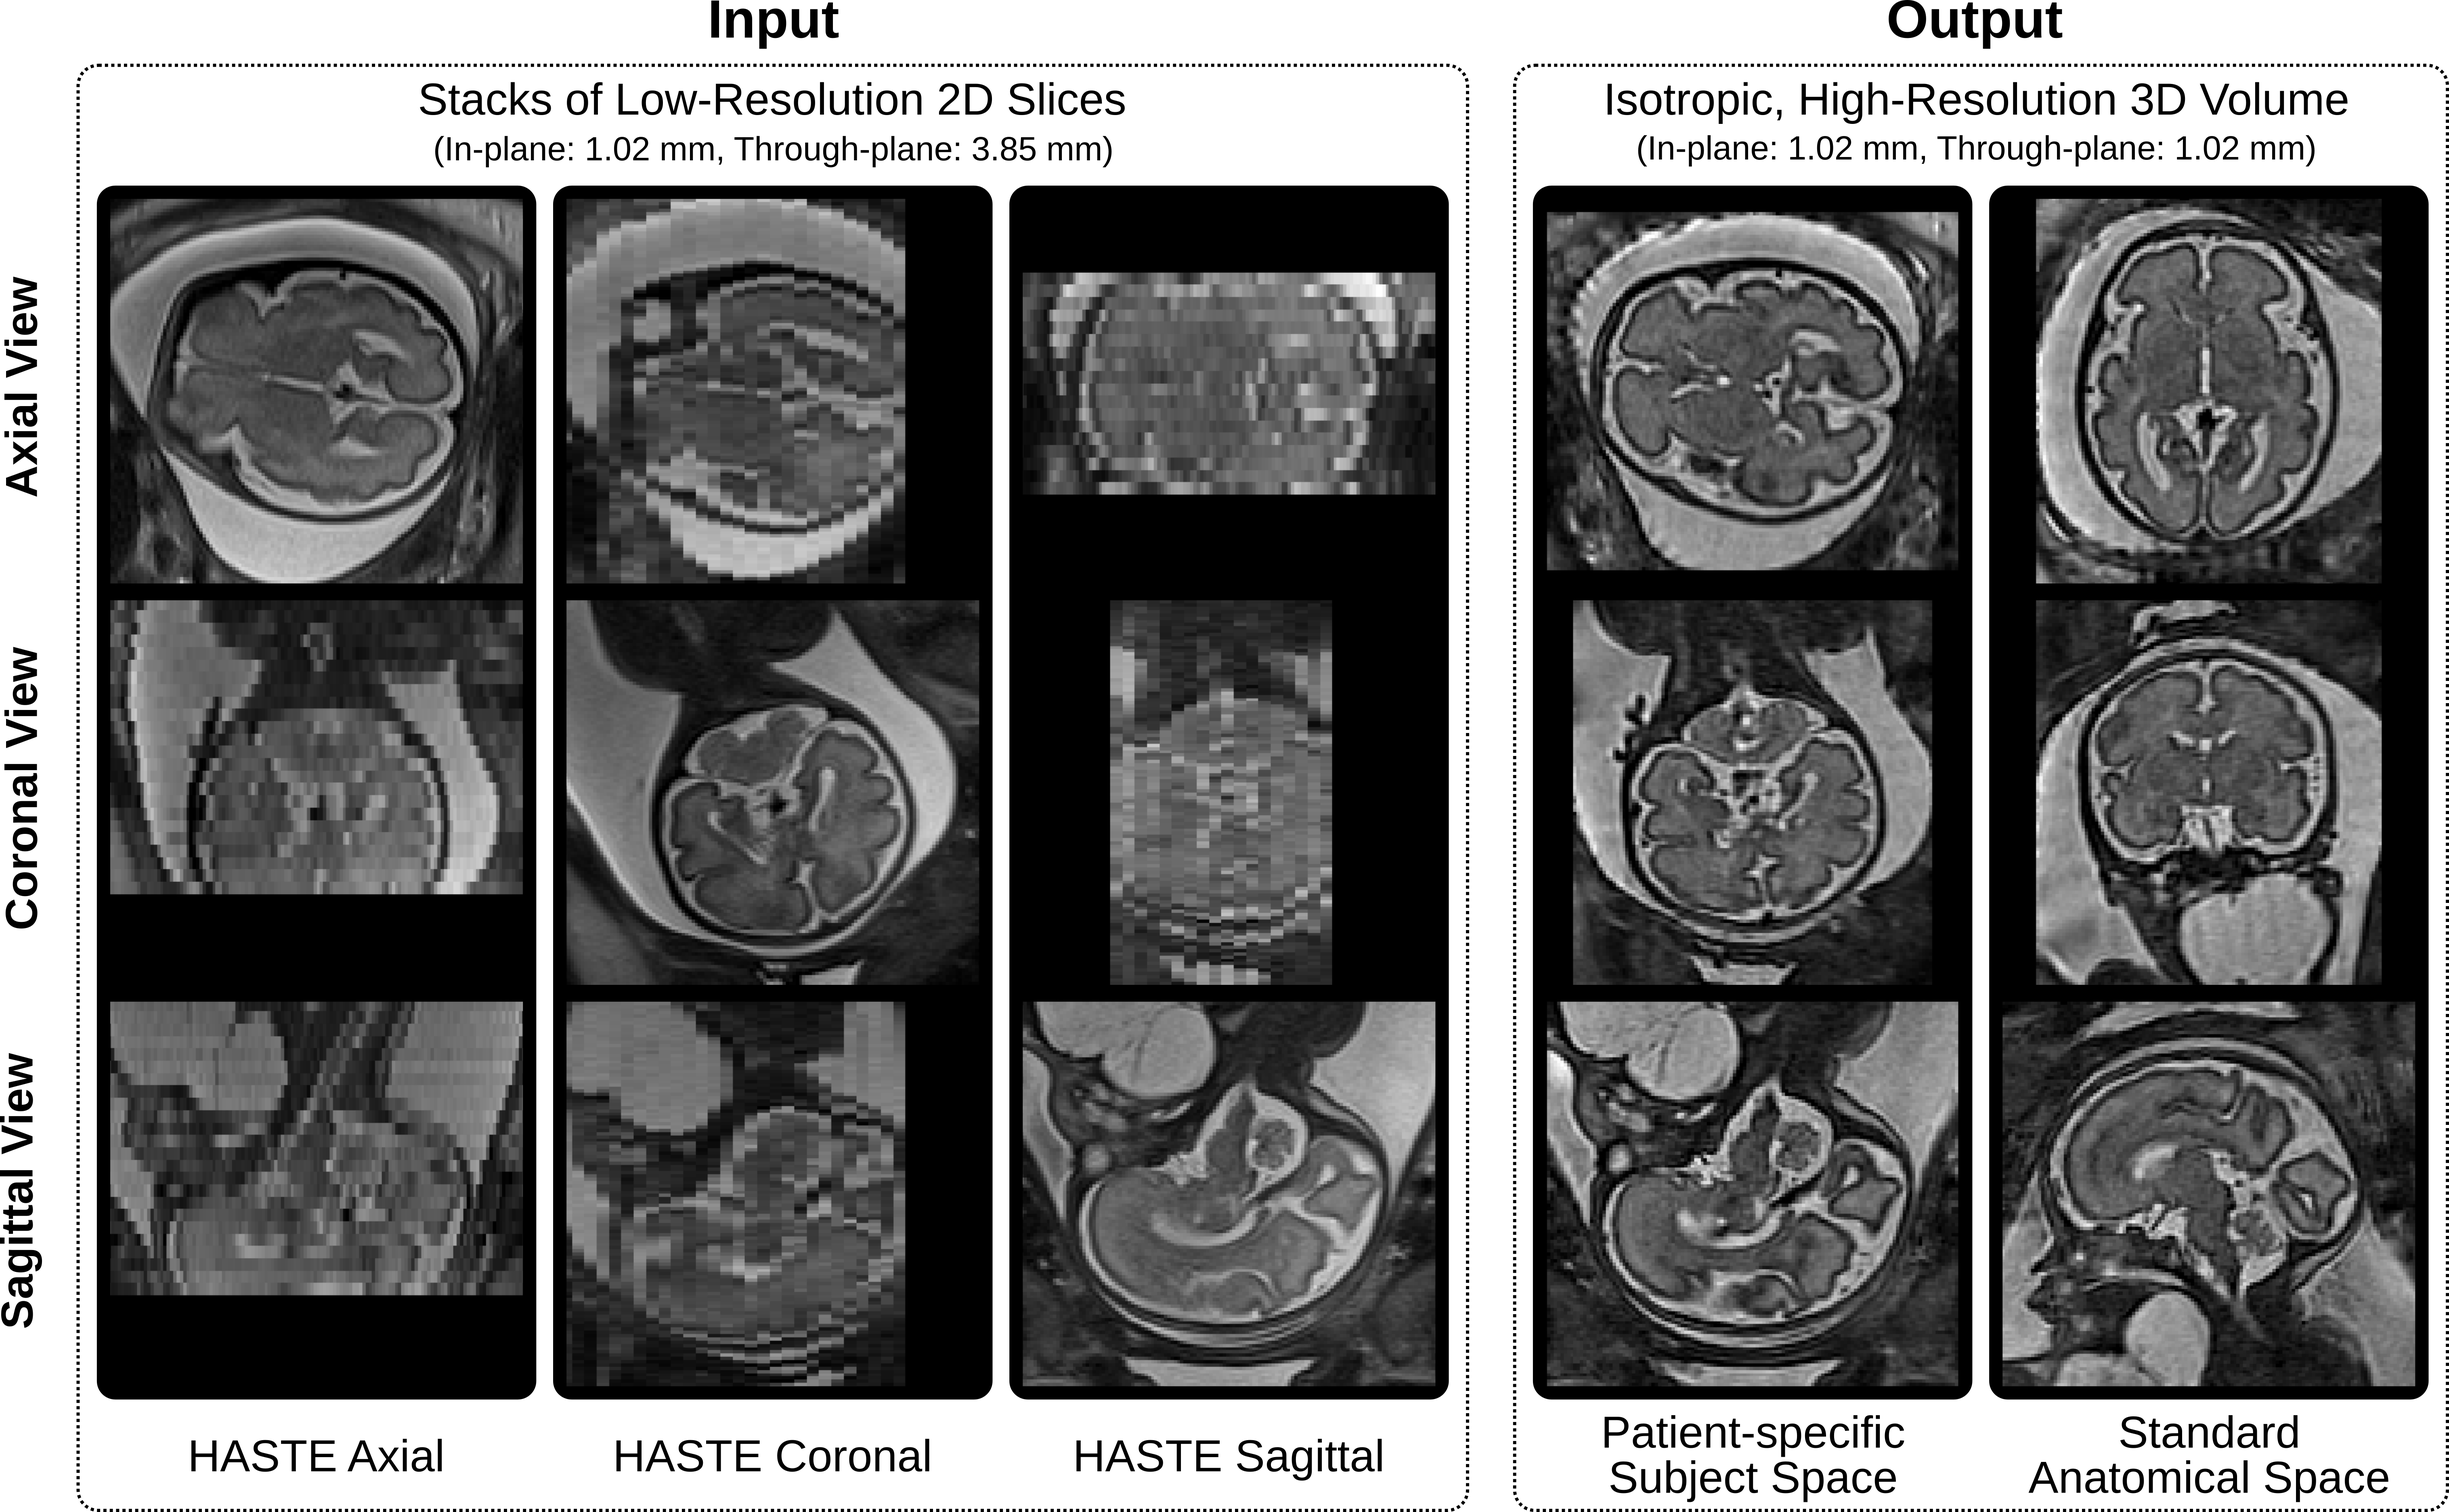
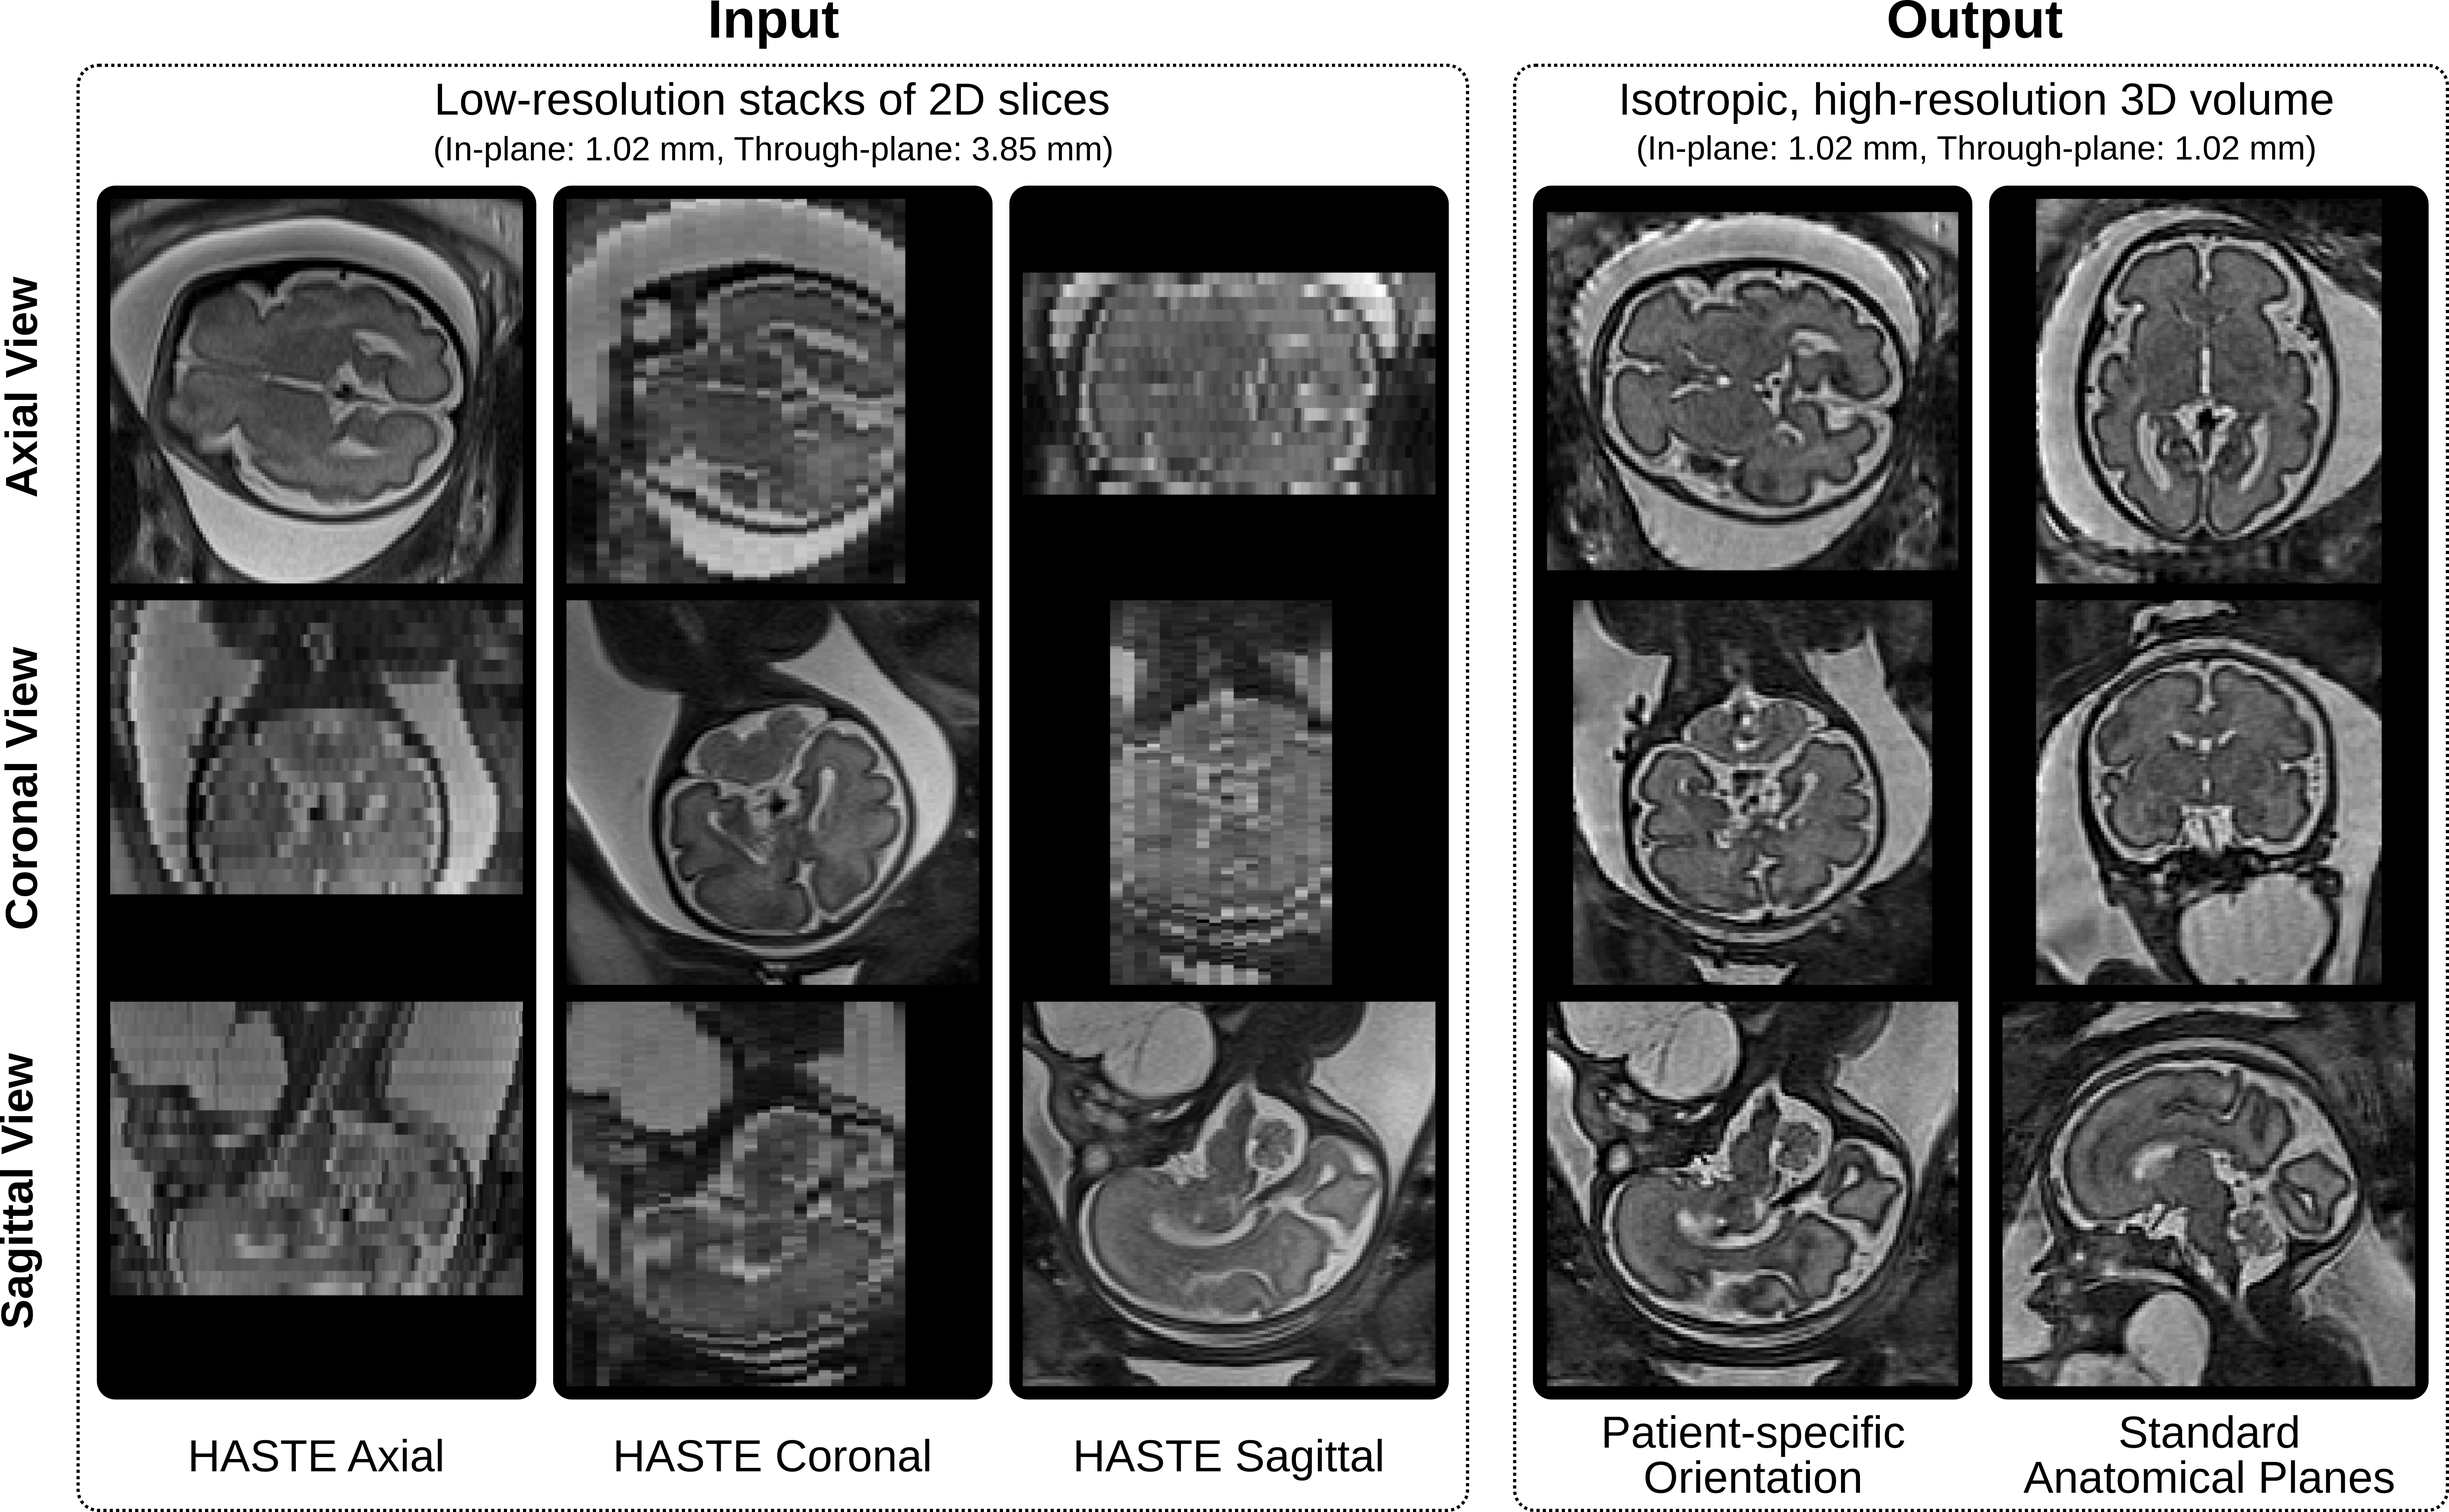
DOC: Update NiftyMIC demo pic and README
[ci-skip]

diff --git a/README.md b/README.md
@@ -12,13 +12,13 @@ Given a set of low-resolution, possibly motion-corrupted, stacks of 2D slices, N
 <p align="center">
    <img src="./data/demo/NiftyMIC_Algorithm.png" align="center" width="700">
 </p>
-<p align="center">Figure 1. NiftyMIC - a volumetric reconstruction tool based on rigid slice-to-volume registration and outlier-robust super-resolution reconstruction steps - applied to fetal brain MRI.<p align="center">
+<p align="center">Figure 1. NiftyMIC - a volumetric MRI reconstruction tool based on rigid slice-to-volume registration and outlier-robust super-resolution reconstruction steps - applied to fetal brain MRI.<p align="center">
 
 
 <p align="center">
    <img src="./data/demo/NiftyMIC_VolumetricReconstructionOutput.png" align="center" width="1000">
 </p>
-<p align="center">Figure 2. Qualitative comparison of the original low-resolution input data and the obtained high-resolution volumetric reconstructions in both the original subject and standard anatomical spaces. Five input stacks (two axial, one coronal and two sagittal) were used. <p align="center">
+<p align="center">Figure 2. Qualitative comparison of the original low-resolution input data and the obtained high-resolution volumetric reconstructions in both the original patient-specific and standard anatomical orientations. Five input stacks (two axial, one coronal and two sagittal) were used. <p align="center">
 
 ## Algorithm
 Several methods have been implemented to solve the **Robust Super-Resolution Reconstruction (SRR)** problem 
